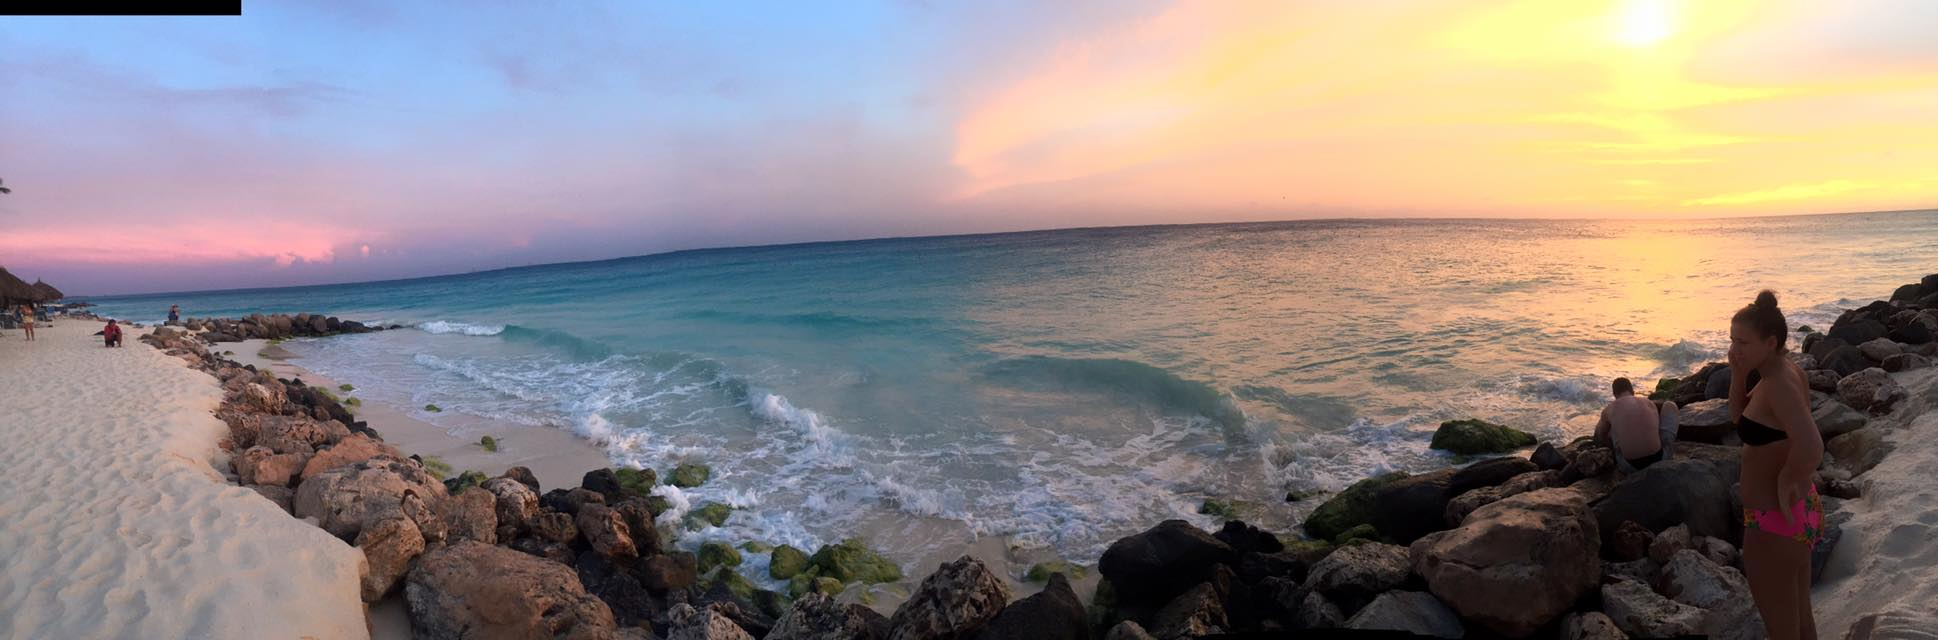
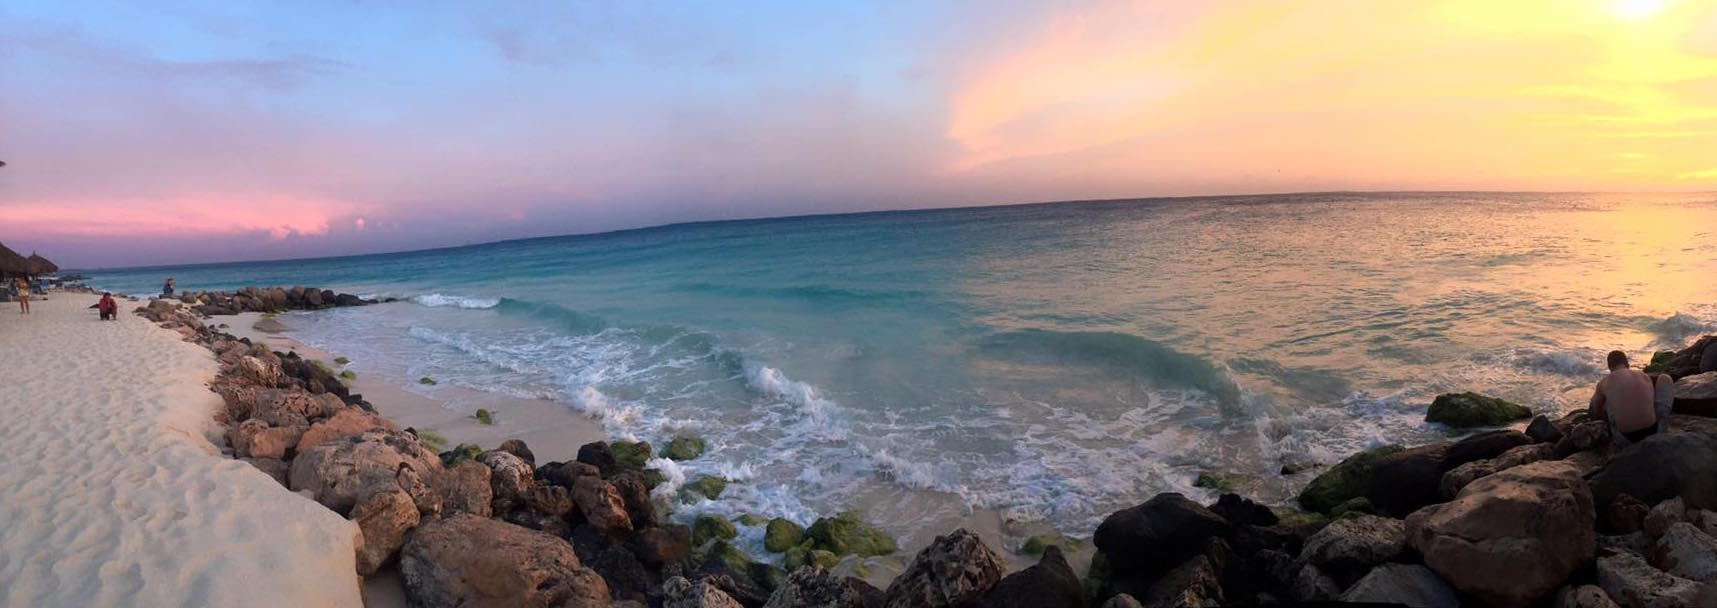
long overdue UI udpates

diff --git a/blog.html b/blog.html
@@ -12,14 +12,13 @@
 </head>
 <body>
 
-<div id="wrapper">
+<!-- <div id="wrapper"> -->
 		<div id="header">
 			<!-- <a href="index.html">Max Lancaster</a> -->
-			<img class="header-image" src="graphics/boston-skyline-brassrat.png">
-			<a href="index.html"><img src="graphics/headshot.jpg" class="img-circle headshot" width="150" height="150"></a>
+			<img class="header-image" src="graphics/panorama-cut.jpeg">
 		</div>
-		<div id="main-content-wrapper">
-		<div id="main-content">		 
+		<!-- <div id="main-content-wrapper"> -->
+		<div id="main-content" class="col-xs-8">		 
 			<div class="title">
 				<div id="title">Blog</div>
 			</div>
@@ -417,9 +416,9 @@
 				</div>
 			</div>
 		</div>
-	</div>
+	<!-- </div> -->
 
-	<div id="sidebar">
+	<div id="right-sidebar" class="col-xs-2">
 		<div id="links-header">Links</div>
 		<div id="links-content">
 			<p><a href="other-stuff/CV.pdf">CV</a></p>
@@ -430,7 +429,10 @@
 			<p><a href="projects.html">Projects</a></p>
 		</div>
 	</div>
-</div>
+	<div id="left-sidebar" class="col-xs-2">
+		<a href="index.html"><img src="graphics/headshot.jpg" class="img-circle img-responsive headshot"></a>
+	</div>
+<!-- </div> -->
 <script src="https://code.jquery.com/jquery-2.1.4.min.js"></script>
 <script type="text/javascript" src="libraries/jquery/js/jquery-1.9.0.min.js"></script>
 <script src="libraries/Gallery-master/js/jquery.blueimp-gallery.min.js"></script>

diff --git a/style.css b/style.css
@@ -63,18 +63,9 @@ html, body {
 	min-width: 100%;
 }
 
-#main-content-wrapper {
-	position: absolute;
-    left:210px;
-    background:#9c9;
-    display: block;
-    border-radius: 4px;
-    box-sizing: border-box;
-}
-
 #main-content {
+    left: 16%;
 	position: absolute;
-	left: 20px;
 	border-radius: 4px;
     box-sizing: border-box;
 }
@@ -83,11 +74,9 @@ html, body {
 	font-size: 40px;
 }
 
-#sidebar {
+#right-sidebar {
+    right: 10px;
     margin-top: 10px;
-    margin-left: 15px;
-    width:200px;
-    /*height:100%;*/
    	background:#d8b652;	
     position: fixed;
     display: block;
@@ -95,8 +84,17 @@ html, body {
     box-sizing: border-box;
 }
 
-#sidebar a {
+#right-sidebar a {
     color: black;
+}
+
+#left-sidebar {
+    margin-top: 10px;
+    left: 0;
+    position: fixed;
+    display: block;
+    border-radius: 10px;
+    box-sizing: border-box;
 }
 
 .callout {
@@ -137,9 +135,9 @@ html, body {
 }
 
 .headshot {
-    top: 15px;
-    left: 15px;
-    position: fixed;
+    /*top: 10%;*/
+    left: 0;
+    /*position: fixed;*/
     border: 1px solid white;
     outline-color: white;
 }
@@ -153,6 +151,8 @@ html, body {
 }
 
 .post-image {
+    max-width: 90%;
+    max-height: 90%;
 	display: block; 
 	margin: 0 auto; 
 	border: 2px solid gray;
